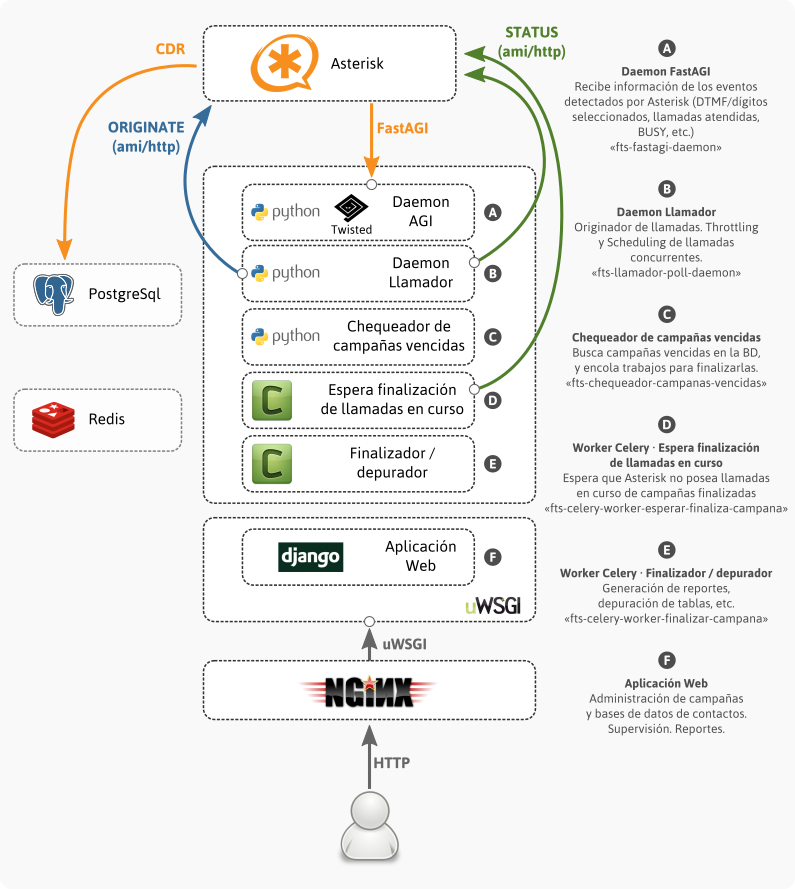
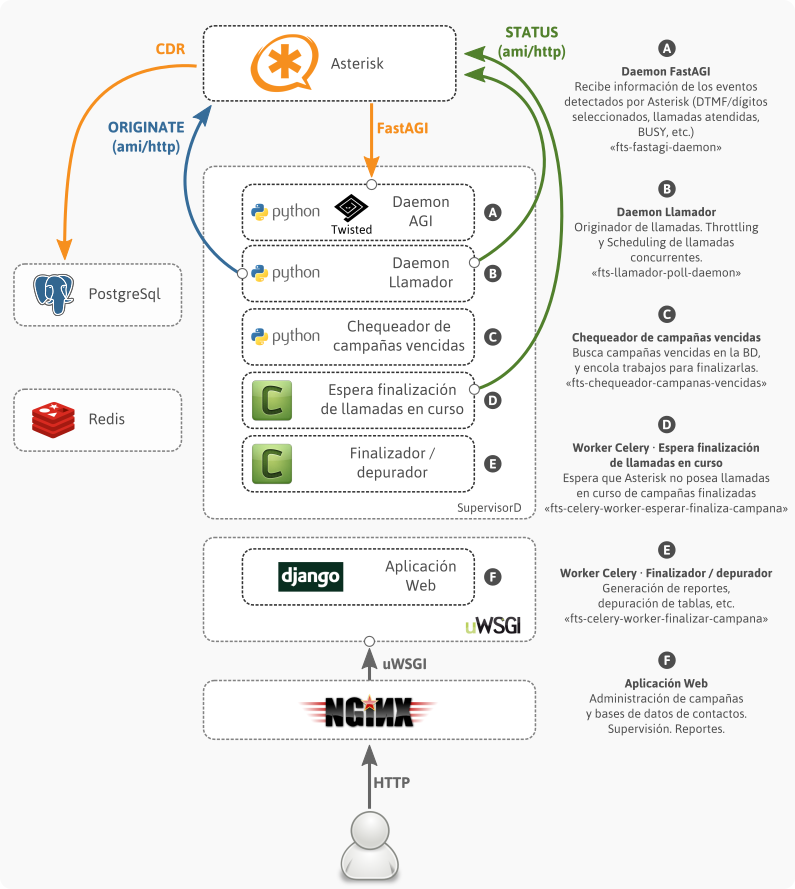
Actualiza docs/ e imagen de arquitectura

diff --git a/docs/procesos.rst b/docs/procesos.rst
@@ -11,34 +11,16 @@ Los paths indicados aquí son relativos al directorio base de
 los fuentes del proyectos, o sea, *no* se refieren a los paths
 en donde se encontrarán en el servidor.
 
-Aplicación Web: Django + uWSGI
+
+
+
+Notas generales
 ---------------------------------------------------------------
-
-Este proceso es gestionado directamente con "init scripts":
-
-.. code::
-
-    deploy/roles/ftsender_server/templates/etc/init.d/ftsender-daemon
-
-los settings son tomados desde:
-
-.. code::
-
-    deploy/roles/ftsender_server/templates/ftsender_uwsgi.ini
-
-El reload y stop del servicio es realizado a travez del FIFO.
-
-.. note::
-
-    Si este servicio no corre, la aplicación web queda inaccesible, pero
-    **el resto del sistema funciona correctamente**, y no implica ninguna
-    pérdida de datos.
-
 
 SupervisorD
----------------------------------------------------------------
++++++++++++++++++++++++++++++++++++++++++++++++++++++++++++++++
 
-SupervisorD es utilizado para lanzar y gestionar los demas daemons.
+SupervisorD es utilizado para lanzar y gestionar muchos de los servicios.
 
 El archivo de configuración utilizado es:
 
@@ -58,30 +40,10 @@ en el archivo de configuración, de la forma: ``[program:NOMBRE-DEL-DAEMON]``.
     [program:fts-celery-worker-finalizar-campana]
 
 
-Daemon llamador
----------------
-
-fts-llamador-poll-daemon
-++++++++++++++++++++++++
-
-Este servicio se encarga de interactuar con Asterisk para generar
-las llamadas.
-
-El daemon está implementado en:
-
-.. code::
-
-    fts_daemon/poll_daemon/main.py
 
 
-.. note::
-
-    Si este servicio no corre, el sistema **no generará más llamadas**.
-    No es un problema menor, pero tampoco es tan grave, teniendo en
-    cuenta que **no hay pérdida de datos**.
-
-Daemon FastAGI
---------------
+[A] Daemon FastAGI
+------------------
 
 fts-fastagi-daemon
 ++++++++++++++++++
@@ -113,8 +75,35 @@ El daemon está implementado en:
     producidos **se pierden**. No sabremos quién atendió y quién no,
 
 
-Chequeador de campañas vencidas
--------------------------------
+
+
+[B] Daemon llamador
+-------------------
+
+fts-llamador-poll-daemon
+++++++++++++++++++++++++
+
+Este servicio se encarga de interactuar con Asterisk para generar
+las llamadas.
+
+El daemon está implementado en:
+
+.. code::
+
+    fts_daemon/poll_daemon/main.py
+
+
+.. note::
+
+    Si este servicio no corre, el sistema **no generará más llamadas**.
+    No es un problema menor, pero tampoco es tan grave, teniendo en
+    cuenta que **no hay pérdida de datos**.
+
+
+
+
+[C] Chequeador de campañas vencidas
+-----------------------------------
 
 fts-chequeador-campanas-vencidas
 ++++++++++++++++++++++++++++++++
@@ -138,8 +127,10 @@ El daemon está implementado en:
     ni reutilizar dicha campaña.
 
 
-Worker Celery esperador
------------------------
+
+
+[D] Worker Celery · Espera finalización de llamadas en curso
+------------------------------------------------------------
 
 fts-celery-worker-esperar-finaliza-campana
 ++++++++++++++++++++++++++++++++++++++++++
@@ -164,8 +155,10 @@ Las tasks asíncronas, que se ejecutarán en workers de Celery, están definidas
     ni reutilizar dicha campaña.
 
 
-Worker Celery finalizador
--------------------------
+
+
+[E] Worker Celery · Finalizador / depurador
+-------------------------------------------
 
 fts-celery-worker-finalizar-campana
 +++++++++++++++++++++++++++++++++++
@@ -185,3 +178,33 @@ Las tasks asíncronas, que se ejecutarán en workers de Celery, están definidas
     No es un problema grave si tenemos en cuenta que no se producen perdidas de datos,
     pero produce problemas a los usuarios, ya que ellos no podrán ver los reportes
     ni reutilizar dicha campaña.
+
+
+
+
+[F] Aplicación Web
+---------------------------------------------------------------
+
+Django + uWSGI
++++++++++++++++++++++++++++++++++++++++++++++++++++++++++++++++
+
+
+Este proceso es gestionado directamente con "init scripts":
+
+.. code::
+
+    deploy/roles/ftsender_server/templates/etc/init.d/ftsender-daemon
+
+los settings son tomados desde:
+
+.. code::
+
+    deploy/roles/ftsender_server/templates/ftsender_uwsgi.ini
+
+El reload y stop del servicio es realizado a travez del FIFO.
+
+.. note::
+
+    Si este servicio no corre, la aplicación web queda inaccesible, pero
+    **el resto del sistema funciona correctamente**, y no implica ninguna
+    pérdida de datos.
